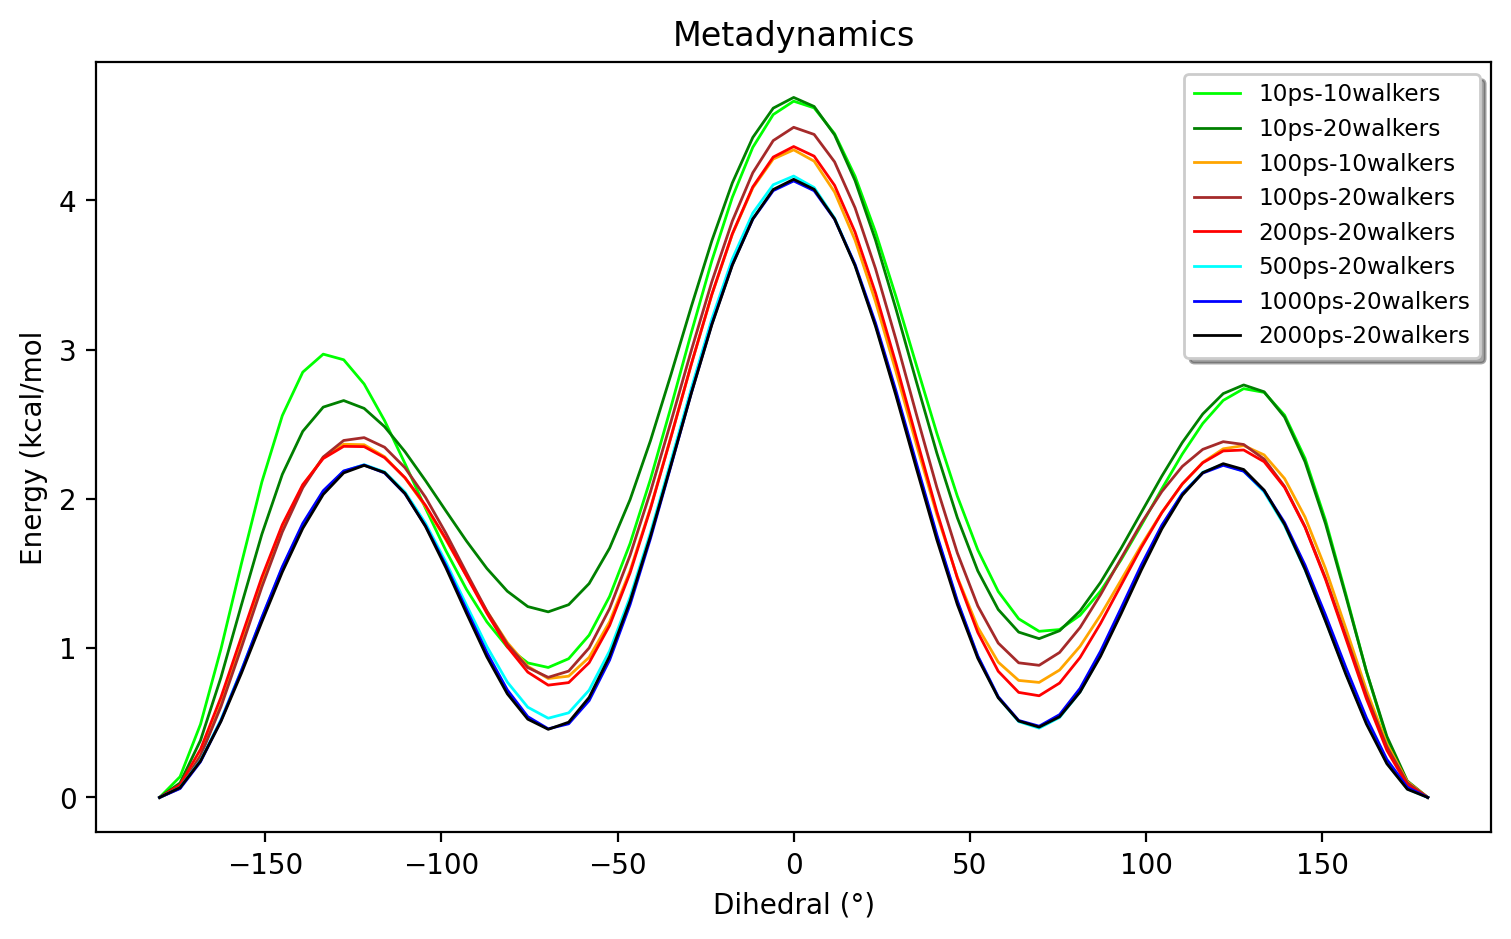
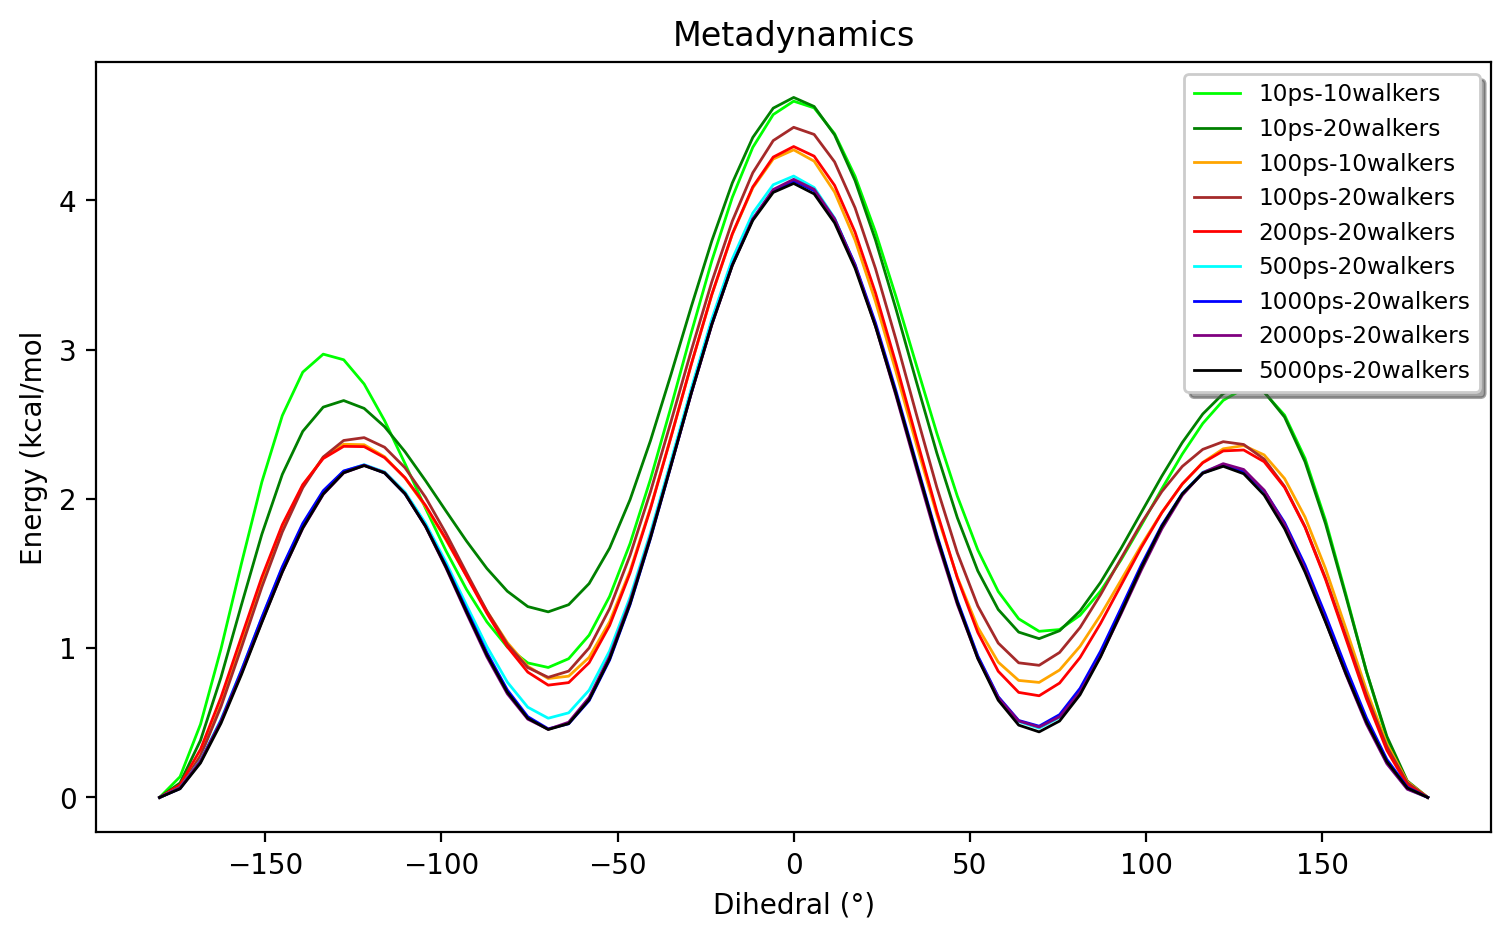
mtd tutorial update

diff --git a/docs/mtd_tutorial.rst b/docs/mtd_tutorial.rst
@@ -92,18 +92,6 @@ Running the script above for 1 ps, 10 ps and 100 ps and plotting (using the **me
 As shown, a 1 ps simulation gives a qualitatively wrong energy surface, while 10 ps is qualitatively OK but strongly breaks symmetry.
 The 100 ps simulation is qualitatively correct but breaks symmetry a little bit and obviously these simulations are still far from being converged.
 
-The overall quality of the simulation and the resulting free-energy surface will depend on the simulation time (as shown) but also on the biaswidth, biasfactor and Gaussian height.
-
-The effect of the biaswidth is shown in the figure below (keeping simulation length at 10 ps)
-
-.. image:: figures/MTD_biaswidth_tests.png
-   :align: center
-   :width: 400
-
-A width of biaswidth=1.0 radians clearly is too large while biaswidth=0.20 is too small.
-It is more difficult to tell apart the other values (due to sampling noise) but a width of 0.25-0.50 radians seems appropriate here. 
-As discussed in the metadynamics literature, a common way to determine the biaswidth is to run a regular MD simulation and choose a biaswidth based on the fluctuation of the CV.
-
 To reduce the sampling error, we could continue to increase the simulation time beyond 100 ps.
 However, an even better approach is to utilize multi-walker metadynamics. By simply running multiple metadynamics simulations (each simulation being a walker) with a shared
 biasdirectory, the different walkers will more quickly sample the free-energy surface. Multiple walkers is more efficient as we can e.g. use 10 CPU cores to run 10
@@ -119,7 +107,7 @@ The slight breaking of symmetry of the 2 barriers (at approx 3 kcal/mol) and the
 To further reduce the sampling error we could utilize even more walkers or run each simulation for longer, the choice will depend on the computional resources available.
 Note that by keeping the biasdirectory the same we can run simulation as different times, i.e. come back to previous simulations and continue.
 
-The figure below shows even longer simulations (up to 2000 ps) with up to 20 walkers and it appears that decent convergence is reached between 500-2000 ps for 20 walkers.
+The figure below shows even longer simulations (up to 5000 ps) with up to 20 walkers and it appears that decent convergence is reached at ~1000 ps for 20 walkers.
 
 .. image:: figures/MTD_multiwalker-multitime.png
    :align: center
@@ -134,7 +122,17 @@ Finally we can compare the original 0 K potential energy surface to the 300 K fr
 Some differences between the potential energy and the free energy surface can indeed be seen with respect to barrier height. 
 Such differences need to be carefully interpreted, however, in view of sampling errors and of course with respect to how the simulations are carried out with respect to thermostats, ensemble effects etc.
 
-TODO: Show better way of estimating the sampling error
+
+The simulation will also depend on the biaswidth, biasfactor and Gaussian height. A Gaussian height of 1 kJ/mol is pretty standard.
+The effect of the biaswidth is shown in the figure below (simulation length of 1000 ps)
+
+.. image:: figures/MTD_multiwalker-1000ps-biaswidths.png
+   :align: center
+   :width: 400
+
+A width of biaswidth=1.0 radians clearly is too large and biaswidth=0.6 and biaswidth=0.75 radians show some minor deviations compared to the smaller values.
+As discussed in the metadynamics literature, another common way to determine the biaswidth is to run a regular unbiased MD simulation for one minimum and choose a biaswidth based on the fluctuation of the CV (e.g. a third of the fluctation).
+
 
 
 #####################################################################
